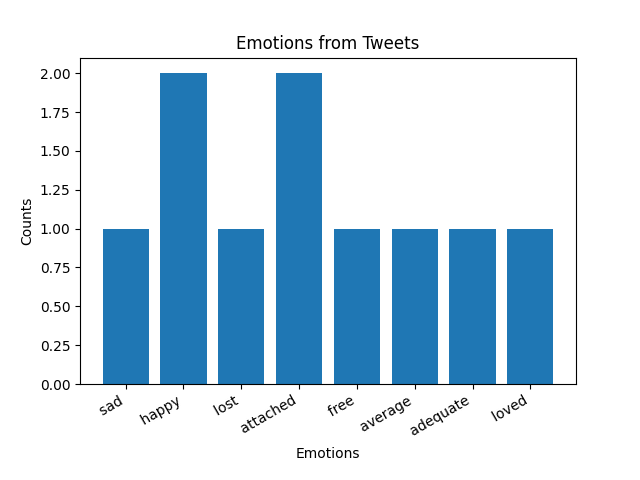
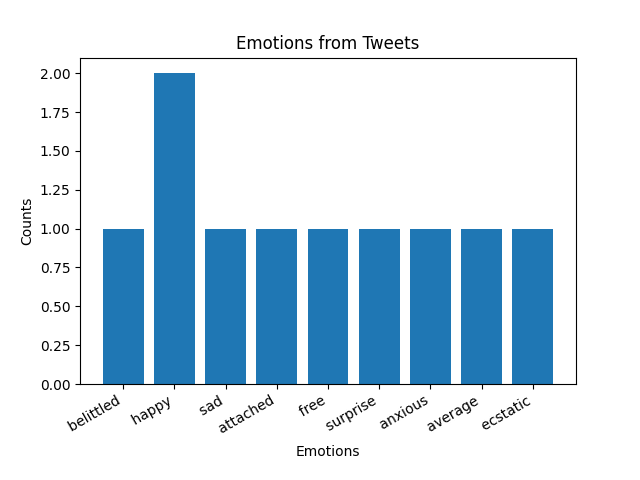
Updated sentiment analysis and graph generation files

diff --git a/twitterScrap.py b/twitterScrap.py
@@ -1,21 +1,25 @@
-from twikit import Client, TooManyRequests
 import time
 from datetime import datetime
 import csv
 from configparser import ConfigParser
 from random import randint
+import logging
+from twikit import Client, TooManyRequests
 
 MINIMUM_TWEETS = 100
 QUERY = 'Rishabh Pant'
 
+# * logging configuration
+logging.basicConfig(filename='tweet_scrape.log', level=logging.INFO,
+                    format='%(asctime)s - %(levelname)s - %(message)s')
 
 def get_tweets(tweets):
     if tweets is None:
-        print(f'{datetime.now()} - Getting tweets...')
+        logging.info('Getting tweets...')
         tweets = client.search_tweet(QUERY, product='Top')
     else:
         wait_time = randint(5, 10)
-        print(f'{datetime.now()} - Getting next tweets after {wait_time} seconds ...')
+        logging.info(f'Getting next tweets after {wait_time} seconds...')
         time.sleep(wait_time)
         tweets = tweets.next()
 
@@ -29,41 +33,54 @@ username = config['X']['username']
 email = config['X']['email']
 password = config['X']['password']
 
-# * create a csv file
-with open('C:\\Users\\ayush\\Downloads\\tempCSV.csv', 'w', newline='', encoding='utf-8') as file:
-    writer = csv.writer(file)
-    writer.writerow(['Tweet_count', 'Username', 'Text', 'Created At', 'Retweets', 'Likes'])
-
 # * authenticate to X.com
 client = Client(language='en-US')
 client.load_cookies('cookies_cleaned.json')
 
 tweet_count = 0
 tweets = None
+batch_size = 20  # Set batch size for writing tweets in chunks
 
-while tweet_count < MINIMUM_TWEETS:
-    try:
-        tweets = get_tweets(tweets)
-    except TooManyRequests as e:
-        rate_limit_reset = datetime.fromtimestamp(e.rate_limit_reset)
-        print(f'{datetime.now()} - Rate limit reached. Waiting until {rate_limit_reset}')
-        wait_time = rate_limit_reset - datetime.now()
-        time.sleep(wait_time.total_seconds())
-        continue
+# * create a csv file and open it once for writing
+with open('C:\\Users\\ayush\\Downloads\\tempCSV.csv', 'w', newline='', encoding='utf-8') as file:
+    writer = csv.writer(file)
+    writer.writerow(['Tweet_count', 'Username', 'Text', 'Created At', 'Retweets', 'Likes'])
 
-    if not tweets:
-        print(f'{datetime.now()} - No more tweets found')
-        break
+    while tweet_count < MINIMUM_TWEETS:
+        try:
+            tweets = get_tweets(tweets)
+        except TooManyRequests as e:
+            rate_limit_reset = datetime.fromtimestamp(e.rate_limit_reset)
+            logging.warning(f'Rate limit reached. Waiting until {rate_limit_reset}')
+            wait_time = (rate_limit_reset - datetime.now()).total_seconds()
+            time.sleep(max(0, wait_time))  # Sleep until the rate limit reset time
+            continue
 
-    for tweet in tweets:
-        tweet_count += 1
-        tweet_data = [tweet_count, tweet.user.name, tweet.text, tweet.created_at, tweet.retweet_count,
-                      tweet.favorite_count]
+        if not tweets:
+            logging.info('No more tweets found.')
+            break
 
-        with open('C:\\Users\\ayush\\Downloads\\tempCSV.csv', 'a', newline='', encoding='utf-8') as file:
-            writer = csv.writer(file)
-            writer.writerow(tweet_data)
+        tweet_batch = []
+        for tweet in tweets:
+            tweet_count += 1
+            tweet_data = [
+                tweet_count,
+                tweet.user.name,
+                tweet.text,
+                tweet.created_at,
+                tweet.retweet_count,
+                tweet.favorite_count
+            ]
+            tweet_batch.append(tweet_data)
 
-    print(f'{datetime.now()} - Got {tweet_count} tweets')
+            if len(tweet_batch) >= batch_size:
+                writer.writerows(tweet_batch)
+                tweet_batch.clear()  # Clear batch after writing to file
 
-print(f'{datetime.now()} - Done! Got {tweet_count} tweets found')
+        # Write any remaining tweets in the batch
+        if tweet_batch:
+            writer.writerows(tweet_batch)
+
+        logging.info(f'Got {tweet_count} tweets')
+
+logging.info(f'Done! Total {tweet_count} tweets retrieved.')

diff --git a/graph_creator.py b/graph_creator.py
@@ -2,6 +2,7 @@ import pandas as pd
 import string
 from collections import Counter
 import matplotlib.pyplot as plt
+import matplotlib.cm as cm
 
 # Load tweets from CSV file
 def load_tweets_from_csv(file_path):
@@ -22,29 +23,34 @@ cleaned_text = lower_case.translate(str.maketrans('', '', string.punctuation))
 tokenized_words = cleaned_text.split()
 
 # Define stop words
-stop_words = set([...])  # Keep your list of stop words here
+stop_words = set([...])  # Add your stop words here
 
 # Removing stop words from the tokenized words list
+# Removing stop words and handling frequencies
 final_words = [word for word in tokenized_words if word not in stop_words]
 
-# Get emotions text
+# Get emotions text with word frequency
 emotion_list = []
+emotion_word_freq = Counter()
 with open('emotions.txt', 'r') as file:
     for line in file:
         clear_line = line.replace('\n', '').replace(',', '').replace("'", '').strip()
         word, emotion = clear_line.split(':')
         if word in final_words:
             emotion_list.append(emotion)
+            emotion_word_freq[emotion] += 1
 
-# Count emotions
-w = Counter(emotion_list)
+# Count emotions and plot frequencies
+w = emotion_word_freq
 
-# Plotting the results
-fig, ax1 = plt.subplots()
-ax1.bar(w.keys(), w.values())
-fig.autofmt_xdate()
-plt.title('Emotions from Tweets')
-plt.xlabel('Emotions')
-plt.ylabel('Counts')
-plt.savefig('sentiment_graph.png')
+# Plotting code remains the same
+fig, ax1 = plt.subplots(figsize=(12, 8))
+colors = cm.viridis(range(len(w)))
+ax1.barh(list(w.keys()), list(w.values()), color=colors)
+for i, v in enumerate(w.values()):
+    ax1.text(v + 1, i, str(v), color='black', va='center', fontsize=12)
+plt.title('Emotions from Tweets (With Word Frequencies)', fontsize=16)
+plt.xlabel('Counts', fontsize=14)
+plt.ylabel('Emotions', fontsize=14)
+plt.savefig('detailed_sentiment_graph_with_frequencies.png')
 plt.show()
